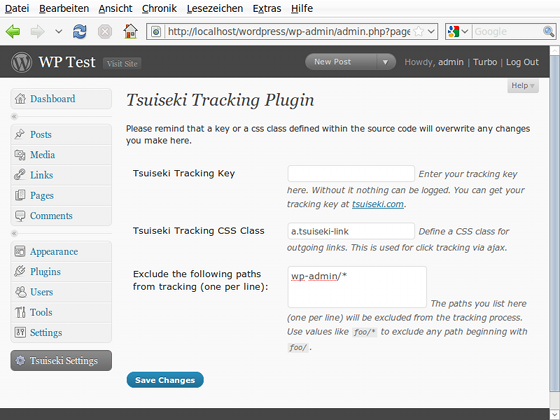
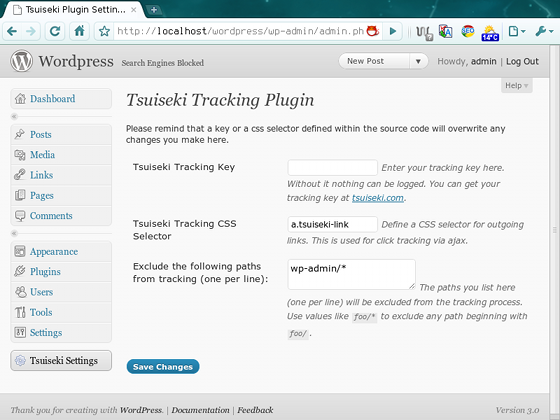
- renamed css class to css selector as we are using selector expressions not only class names. - updated screenshot and readme
git-svn-id: https://plugins.svn.wordpress.org/tsuiseki-tracking/trunk@254148 b8457f37-d9ea-0310-8a92-e5e31aec5664

diff --git a/tsuiseki_tracking.php b/tsuiseki_tracking.php
@@ -16,7 +16,7 @@ session_start(); // We need to start a session to be able to use cookies in word
  * @author Jens Jahnke <jan0sch@gmx.net>
  */
 /**
- * Here you can define your tsuiseki tracking key.
+ * Here you can define your tsuiseki tracking key e.g. `define('TSUISEKI_TRACKER_KEY', 'MY_TRACKING_KEY');`.
  * This define is intended to speed things up. If you leave it empty
  * each view/click will cost you an additional database query for looking
  * up the key (variable_get).
@@ -25,8 +25,8 @@ session_start(); // We need to start a session to be able to use cookies in word
 define('TSUISEKI_TRACKER_KEY', NULL);
 
 /**
- * The CSS class for outgoing links.
- * FIXME Please enter the css class of the links you want to track here.
+ * The CSS selector for outgoing links e.g. `a.my_link_class`.
+ * FIXME Please enter the css selector expression of the links you want to track here.
  */
 define('TSUISEKI_TRACKER_CSS_CLASS', NULL);
 
@@ -57,7 +57,8 @@ define('TSUISEKI_TRACKER_COOKIE_VIEW_COUNTER_NAME', 'TS_VIEWS');
 define('TSUISEKI_TRACKER_HMAC_ALGORITHM', 'sha256');
 
 /**
- * The secret key we use to proofe the integrity of our cookies.
+ * The secret key we use to proofe the integrity of our cookies. Any character except ' is allowed.
+ * To generate a usefull hmac key you should run the command `pwgen -cnsy 63` on a linux or bsd terminal.
  * FIXME You must change this and it should not be too short!
  */
 define('TSUISEKI_TRACKER_HMAC_KEY', 'JBOab!,`t?\:>f&R{A\P2gp!+W|s-U66]&t/[{~W}[!#>K92f/N@7aQfvcR!>:Cn');
@@ -328,9 +329,9 @@ function tsuiseki_tracking_generate_javascript() {
 } // function tsuiseki_tracking_generate_javascript
 
 /**
- * Returns the css class for outgoing links that should be tracked.
+ * Returns the css selector for outgoing links that should be tracked.
  *
- * @return string The css class that should be tracked for clicks.
+ * @return string The css selector that should be tracked for clicks.
  */
 function tsuiseki_tracking_get_css_class() {
   $css = TSUISEKI_TRACKER_CSS_CLASS;
@@ -429,7 +430,7 @@ function tsuiseki_tracking_settings_page() {
 ?>
 <div class="wrap">
 <h2>Tsuiseki Tracking Plugin</h2>
-<p>Please remind that a key or a css class defined within the source code will overwrite any changes you make here.</p>
+<p>Please remind that a key or a css selector defined within the source code will overwrite any changes you make here.</p>
 <form method="post" action="options.php">
     <?php settings_fields( 'tsuiseki-tracking-settings' ); ?>
     <table class="form-table">
@@ -444,11 +445,11 @@ function tsuiseki_tracking_settings_page() {
         </tr>
 
         <tr valign="top">
-        <th scope="row">Tsuiseki Tracking CSS Class</th>
+        <th scope="row">Tsuiseki Tracking CSS Selector</th>
         <td><input type="text" name="tsuiseki_tracking_css_class" value="<?php echo get_option('tsuiseki_tracking_css_class'); ?>" />
-        <span class="description">Define a CSS class for outgoing links. This is used for click tracking via ajax.</span>
+        <span class="description">Define a CSS selector for outgoing links. This is used for click tracking via ajax.</span>
         <?php $tmp = TSUISEKI_TRACKER_CSS_CLASS; if (!empty($tmp)) : ?>
-        <br /><span class="error">A css class is defined in your plugin file source code.</span>
+        <br /><span class="error">A css selector is defined in your plugin file source code.</span>
         <?php endif; ?>
         </td>
         </tr>
